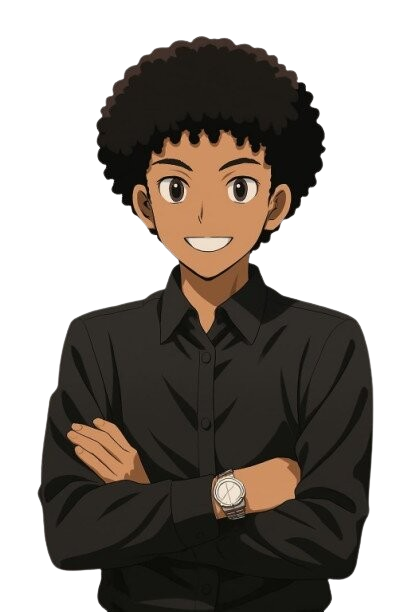
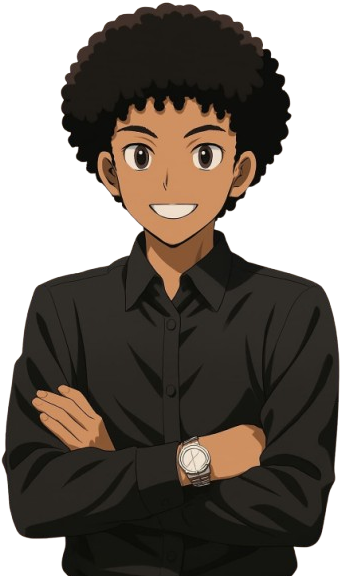
arrumando imagem apresentação

Changed region(s): [[0.0, 0.0, 0.9971, 1.0], [0.1466, 0.8125, 0.176, 0.8438]]

diff --git a/src/components/skills/Skills.tsx b/src/components/skills/Skills.tsx
@@ -1,32 +1,32 @@
 
-import js from "../../img/js.png"
-import ts from "../../img/ts.png"
-import redux from "../../img/redux.png"
-import csharp from "../../img/csharp.png"
-import sass from "../../img/sass.png"
-import node from "../../img/node.png"
-import php from "../../img/php.png"
-import html from "../../img/html.png"
-import css from "../../img/css.png"
-import react from "../../img/react.png"
-import mysql from "../../img/mysql.png"     
-import bootstrap from "../../img/bootstrap.png"
-import tailwind from "../../img/tailwinds.png"
-import figma from "../../img/figma.png"
-import wordpress from "../../img/wordpress.png"
 import { useSelector } from "react-redux";
 import { RootState } from "../../store/store";
 import Marquee from "react-fast-marquee";
+import js from "../../img/js.png";
+import ts from "../../img/ts.png";
+import redux from "../../img/redux.png";
+import csharp from "../../img/csharp.png";
+import sass from "../../img/sass.png";
+import node from "../../img/node.png";
+import php from "../../img/php.png";
+import html from "../../img/html.png";
+import css from "../../img/css.png";
+import react from "../../img/react.png";
+import mysql from "../../img/mysql.png";
+import bootstrap from "../../img/bootstrap.png";
+import tailwind from "../../img/tailwinds.png";
+import figma from "../../img/figma.png";
+import wordpress from "../../img/wordpress.png";
 
 export const Skills: React.FC = () => {
-
     const darkMode = useSelector((state: RootState) => state.theme.darkMode);
+    
 
     interface Tema {
-        h1Skills: string
-        DivImg: string,
-        CssImg: string,
-        corfund: string
+        h1Skills: string;
+        DivImg: string;
+        CssImg: string;
+        corfund: string;
     }
 
     const claro: Tema = {
@@ -34,67 +34,29 @@ export const Skills: React.FC = () => {
         corfund: "bg-[#fff] transition duration-400 ease-in-out",
         DivImg: "p-2 shadow-[0px_10px_20px_#333333bd] rounded-2xl bg-[#fff] transition duration-400 ease-in-out",
         CssImg: "w-40 object-contain transition duration-400 ease-in-out"
-    }
+    };
 
     const escuro: Tema = {
         h1Skills: "text-[#0400ff] transition duration-300 ease-in-out",
         corfund: "bg-[#1f1f1f] transition duration-400 ease-in-out",
-        DivImg: "p-2  shadow-[0px_5px_15px_rgba(255,255,255,0.50)] rounded-2xl transition duration-400 ease-in-out",
+        DivImg: "p-2 shadow-[0px_5px_15px_rgba(255,255,255,0.50)] rounded-2xl transition duration-400 ease-in-out",
         CssImg: "w-40 object-contain transition duration-400 ease-in-out"
-    }
+    };
 
     return (
         <main className={darkMode ? claro.corfund : escuro.corfund}>
-            <h1 className={`${darkMode ? claro.h1Skills : escuro.h1Skills} text-5xl py-5 flex justify-center`}>Skills</h1>
-            <Marquee speed={175}>
+            <h1 className={`${darkMode ? claro.h1Skills : escuro.h1Skills} text-5xl py-5 flex justify-center`}>
+                Skills
+            </h1>
+            <Marquee speed={165}>
                 <div className="flex justify-center gap-5 m-3 py-10">
-                    <div className={darkMode ? claro.DivImg : escuro.DivImg}>
-                        <img src={html} alt="" className={darkMode ? claro.CssImg : escuro.CssImg} />
-                    </div>
-                    <div className={darkMode ? claro.DivImg : escuro.DivImg}>
-                        <img src={css} alt="" className={darkMode ? claro.CssImg : escuro.CssImg} />
-                    </div>
-                    <div className={darkMode ? claro.DivImg : escuro.DivImg}>
-                        <img src={js} alt="" className={darkMode ? claro.CssImg : escuro.CssImg} />
-                    </div>
-                    <div className={darkMode ? claro.DivImg : escuro.DivImg}>
-                        <img src={ts} alt="" className={darkMode ? claro.CssImg : escuro.CssImg} />
-                    </div>
-                    <div className={darkMode ? claro.DivImg : escuro.DivImg}>
-                        <img src={react} alt="" className={darkMode ? claro.CssImg : escuro.CssImg} />
-                    </div>
-                    <div className={darkMode ? claro.DivImg : escuro.DivImg}>
-                        <img src={sass} alt="" className={darkMode ? claro.CssImg : escuro.CssImg} />
-                    </div>
-                    <div className={darkMode ? claro.DivImg : escuro.DivImg}>
-                        <img src={node} alt="" className={darkMode ? claro.CssImg : escuro.CssImg} />
-                    </div>
-                    <div className={darkMode ? claro.DivImg : escuro.DivImg}>
-                        <img src={redux} alt="" className={darkMode ? claro.CssImg : escuro.CssImg} />
-                    </div>
-                    <div className={darkMode ? claro.DivImg : escuro.DivImg}>
-                        <img src={csharp} alt="" className={darkMode ? claro.CssImg : escuro.CssImg} />
-                    </div>
-                    <div className={darkMode ? claro.DivImg : escuro.DivImg}>
-                        <img src={php} alt="" className={darkMode ? claro.CssImg : escuro.CssImg} />
-                    </div>
-                    <div className={darkMode ? claro.DivImg : escuro.DivImg}>
-                        <img src={mysql} alt="" className={darkMode ? claro.CssImg : escuro.CssImg} />
-                    </div>
-                    <div className={darkMode ? claro.DivImg : escuro.DivImg}>
-                        <img src={wordpress} alt="" className={darkMode ? claro.CssImg : escuro.CssImg} />
-                    </div>
-                    <div className={darkMode ? claro.DivImg : escuro.DivImg}>
-                        <img src={bootstrap} alt="" className={darkMode ? claro.CssImg : escuro.CssImg} />
-                    </div>
-                    <div className={darkMode ? claro.DivImg : escuro.DivImg}>
-                        <img src={tailwind} alt="" className={darkMode ? claro.CssImg : escuro.CssImg} />
-                    </div>
-                    <div className={darkMode ? claro.DivImg : escuro.DivImg}>
-                        <img src={figma} alt="" className={darkMode ? claro.CssImg : escuro.CssImg} />
-                    </div>
+                    {[html, css, js, ts, react, sass, node, redux, csharp, php, mysql, wordpress, bootstrap, tailwind, figma].map((imgSrc, index) => (
+                        <div key={index} className={darkMode ? claro.DivImg : escuro.DivImg}>
+                            <img src={imgSrc} alt="" className={darkMode ? claro.CssImg : escuro.CssImg} />
+                        </div>
+                    ))}
                 </div>
-            </Marquee> 
-        </main >
-    )
-}
+            </Marquee>
+        </main>
+    );
+};

diff --git a/src/components/Apresentacao/Apresentacao.tsx b/src/components/Apresentacao/Apresentacao.tsx
@@ -22,7 +22,7 @@ export const Aprecentacao: React.FC = () => {
     const claro: Tema = {
         bgColor: "bg-[#fff] py-10",
         textColor: "text-7xl flex w-full text-[#1f1f1f] transition duration-400 ease-in-out",
-        textColor2: "text-7xl text-[#7f5af0] flex justify-end mr-15 transition duration-400 ease-in-out",
+        textColor2: "text-7xl text-[#7f5af0] flex justify-end transition duration-400 ease-in-out",
         apresentar: "text-3xl text-[#000] transition duration-400 ease-in-out",
         buttonBg: "text-3xl bg-[#7f5af0] py-3  text-[#fff] px-10 rounded-2xl flex items-center transition duration-400 ease-in-out hover:bg-[#a48bee]",
         githubButton: "text-[#7f5af0] h-15 w-15 transition duration-400 ease-in-out hover:text-[#a48bee]",
@@ -31,7 +31,7 @@ export const Aprecentacao: React.FC = () => {
     const escuro: Tema = {
         bgColor: "bg-[#1f1f1f] py-10 transition duration-400 ease-in-out",
         textColor: "text-7xl text-[#fff] flex w-full transition duration-400 ease-in-out",
-        textColor2: "text-7xl text-[#0400ff] flex justify-end mr-15 transition duration-400 ease-in-out",
+        textColor2: "text-7xl text-[#0400ff] flex justify-end transition duration-400 ease-in-out",
         apresentar: "text-3xl text-[#fff] transition duration-400 ease-in-out",
         buttonBg: "text-3xl bg-[#0400ff] hover:bg-[#423eff] py-3 text-[#fff] px-10 rounded-2xl flex items-center transition duration-400 ease-in-out",
         githubButton: "text-[#0400ff] h-15 w-15 transition duration-400 ease-in-out hover:text-[#423eff]",
@@ -40,7 +40,7 @@ export const Aprecentacao: React.FC = () => {
 
     return (
         <main >
-            <div className={`${darkMode ? claro.bgColor : escuro.bgColor} transition duration-300 ease-in-out flex  `}>
+            <div className={`${darkMode ? claro.bgColor : escuro.bgColor} transition duration-300 ease-in-out flex mx-10`}>
                 <div className="w-1/2 p-10 flex flex-col gap-8">
                     <div className="flex flex-col gap-1 ">
                         <div>
@@ -59,8 +59,8 @@ export const Aprecentacao: React.FC = () => {
                         <a href="https://github.com/gustavoLim4" className="flex items-end"><FaGithub className={darkMode ? claro.githubButton : escuro.githubButton} /></a>
                     </div>
                 </div>
-                <div className="flex items-center">
-                    <img src={eulogo} alt="eu logo" />
+                <div className="w-1/2 flex justify-center">
+                    <img src={eulogo} alt="eu logo"/>
                 </div>
             </div>
         </main>
